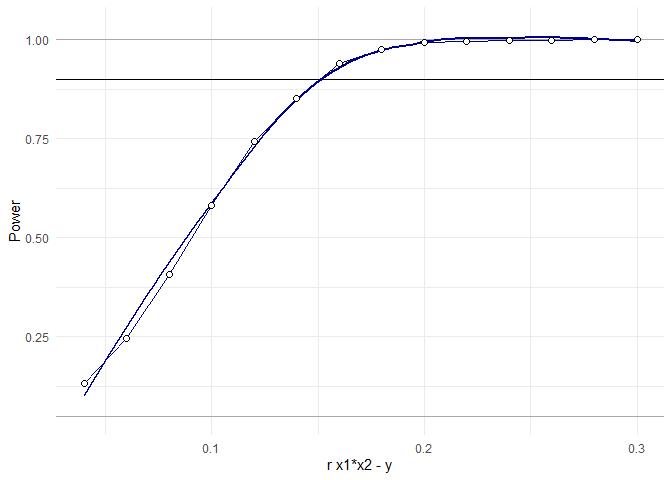
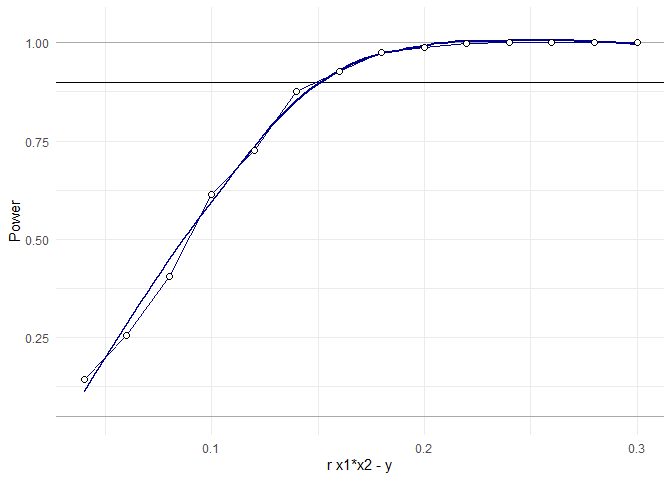
added rsquared

diff --git a/README.md b/README.md
@@ -4,19 +4,18 @@
 # InteractionPoweR
 
 <!-- badges: start -->
-
 <!-- badges: end -->
 
 InteractionPoweR is an R package for running power analyses for
-interactions between continuous variables (also known as a moderation
-analysis). The main function is `power_interaction()`, which performs
-the power analysis. This is done via Monte Carlo simulation.
-`power_estimate()` helps to interpret the results of the power
-simulation, and `plot_power_curve()` and `plot_simple_slope()` generate
-plots to visualize the results. The function `generate_interaction()`
-simulates a single data set drawn from the specified population-level
-effects and `plot_interaction()` can be used to visualize the simulated
-data.
+interactions in cross-sectional data sets between continuous and/or
+binary variables (also known as a moderation analysis). The main
+function is `power_interaction()`, which performs the power analysis.
+This is done via Monte Carlo simulation. `power_estimate()` helps to
+interpret the results of the power simulation, and `plot_power_curve()`
+and `plot_simple_slope()` generate plots to visualize the results. The
+function `generate_interaction()` simulates a single data set drawn from
+the specified population-level effects and `plot_interaction()` can be
+used to visualize the simulated data.
 
 ## Installation
 
@@ -62,15 +61,26 @@ test_power<-power_interaction(
 #> [1] "Checking for errors in inputs..."
 #> [1] "Performing 1000 simulations"
 toc()
-#> 15.2 sec elapsed
+#> 17.71 sec elapsed
 test_power
-#>     pwr     min.lwr   min.upr   max.lwr   max.upr
-#> 1 0.828 -0.08363714 0.2013017 0.1936626 0.4681784
+#> # A tibble: 1,000 x 4
+#> # Groups:   x1x2_r2, x1x2_95confint_25 [1,000]
+#>     x1x2_r2 x1x2_95confint_25 x1x2_95confint_975   pwr
+#>       <dbl>             <dbl>              <dbl> <dbl>
+#>  1 -0.00278           -0.114              0.0991     0
+#>  2 -0.00277           -0.101              0.114      0
+#>  3 -0.00271           -0.106              0.118      0
+#>  4 -0.00268           -0.102              0.111      0
+#>  5 -0.00246           -0.0868             0.121      0
+#>  6 -0.00235           -0.0843             0.124      0
+#>  7 -0.00215           -0.117              0.0715     0
+#>  8 -0.00204           -0.0740             0.127      0
+#>  9 -0.00196           -0.132              0.0779     0
+#> 10 -0.00175           -0.0765             0.146      0
+#> # ... with 990 more rows
 ```
 
 We see that we have \~80% power to detect the effect of interest.
-`min.lwr`, `min.upr` etc reflect the range of simple-slopes you would
-expect to see.
 
 It can be hard to know what interaction correlations mean in terms of
 how the data will look. To help users interpret interaction effects, we
@@ -88,8 +98,8 @@ plot_interaction(data = sample_data,q = 2)
 The `test_interaction()` function can be used to see the results of the
 regression `y ~ x1 + x2 + x1x2`, the correlation between the variables,
 and find the simple slopes from the plot above. In this case, the ‘lower
-slope’, Moderator Group = 1, is roughly 0, while the ‘upper slope’,
-Moderator Group = 1, is 0.38.
+slope’, X2 Group = 1, is roughly 0, while the ‘upper slope’, X2 Group =
+2, is 0.38.
 
 ``` r
 test_interaction(data = sample_data,q = 2)
@@ -98,6 +108,13 @@ test_interaction(data = sample_data,q = 2)
 #> x1   0.1888967 0.05153863 3.665148 2.859696e-04
 #> x2   0.1356407 0.05165265 2.626016 9.022851e-03
 #> x1x2 0.2129386 0.05001033 4.257892 2.661829e-05
+#> 
+#> $x1x2.r2
+#> [1] 0.04391331
+#> 
+#> $x1x2.confint
+#>           [,1]      [,2]
+#> [1,] 0.1145761 0.3113011
 #> 
 #> $correlation
 #>           cor v1   v2
@@ -138,7 +155,7 @@ test_power<-power_interaction(
 #> [1] "Checking for errors in inputs..."
 #> [1] "Performing 60000 simulations"
 toc()
-#> 218.79 sec elapsed
+#> 251.05 sec elapsed
 ```
 
 The results of this analysis can be hard to interpret just by looking at
@@ -153,14 +170,14 @@ plot_power_curve(test_power,power_target = .9)
 <img src="man/figures/README-example4-1.png" width="100%" />
 
 The function `power_estimate()` can be used to estimate where the
-power\_curve for each interaction effect size crosses our 90% line:
+power_curve for each interaction effect size crosses our 90% line:
 
 ``` r
 power_estimate(test_power,power_target = .9,x = "N")
 #>   r.x1x2.y estimate
-#> 1     0.18 309.3075
-#> 2     0.20 249.6749
-#> 3     0.22 206.3517
+#> 1     0.18 306.2977
+#> 2     0.20 244.7260
+#> 3     0.22 201.1376
 ```
 
 We can see that depending on the specific effect size we hope to detect,
@@ -174,26 +191,28 @@ correlation between the two predictors. We know our sample size (perhaps
 we are doing some secondary data analysis) and we want to know what’s
 the smallest effect size we can detect. Using that information, we can
 decide whether that effect would be plausible, which in turn can help
-inform our decision of whether or not to run the analysis.
+inform our decision of whether or not to run the analysis. We’ll ask for
+more details on the simulations using `detailed_results=T`.
 
 ``` r
 library(tictoc)
 tic()
 
 test_power<-power_interaction(
-  n.iter = 1000,                  # number of simulations per unique combination of input parameters
+  n.iter = 1000,            # number of simulations per unique combination of input parameters
   cl = 6,                   # number of cores for parallel processing (strongly recommended)
   alpha = 0.05,             # alpha, for the power analysis
   N = 450,                  # sample size
   r.x1x2.y = seq(0.04,0.3,by=.02), # range of interaction effects to test
   r.x1.y = .2,              # correlation between x1 and y
   r.x2.y = .1,              # correlation between x2 and y
-  r.x1.x2 = .2              # correlation between x1 and x2
+  r.x1.x2 = .2,             # correlation between x1 and x2
+ detailed_results = T       # detailed results have more information on the simulations
 )
 #> [1] "Checking for errors in inputs..."
 #> [1] "Performing 14000 simulations"
 toc()
-#> 86.05 sec elapsed
+#> 88.11 sec elapsed
 ```
 
 As with the previous example, the results of this analysis can be hard
@@ -206,16 +225,16 @@ plot_power_curve(test_power,power_target = .9)
 
 <img src="man/figures/README-example7-1.png" width="100%" /> The
 function `power_estimate()` can be used to estimate where the
-power\_curve for each interaction effect size crosses our 90% line:
+power_curve for each interaction effect size crosses our 90% line:
 
 ``` r
 power_estimate(test_power,power_target = .9,x = "r.x1x2.y")
-#> [1] 0.1478414
+#> [1] 0.1472064
 ```
 
 We can use the function `plot_simple_slope()` to visualize the
-distribution of the simple slopes across the different interaction
-effect sizes.
+distribution of the simple slopes (returned because
+`detailed_results = T`) across the different interaction effect sizes.
 
 ``` r
 plot_simple_slope(test_power)
@@ -255,7 +274,7 @@ test_power<-power_interaction(
 #> [1] "Checking for errors in inputs..."
 #> [1] "Performing 28000 simulations"
 toc()
-#> 157.92 sec elapsed
+#> 162.2 sec elapsed
 plot_power_curve(test_power,power_target = .9)
 ```
 
@@ -283,9 +302,9 @@ adjustment is run prior to the main power analysis, and depending on the
 severity of the changes and size of the analysis, can be relatively
 time-consuming. If, on the other hand, the correlations between
 continuous normal variables is known, but in the analysis one or both
-variables are artificially skewed/dichotomized, set `adjust.correlations
-= F`. In the case where `y` is binary, all analyses and plots are run as
-logistic regressions.
+variables are artificially skewed/dichotomized, set
+`adjust.correlations = F`. In the case where `y` is binary, all analyses
+and plots are run as logistic regressions.
 
 ``` r
 library(tictoc)
@@ -308,7 +327,7 @@ test_power<-power_interaction(
 #> [1] "Adjusting correlations for variable transformations..."
 #> [1] "Performing 9000 simulations"
 toc()
-#> 79.05 sec elapsed
+#> 76.56 sec elapsed
 plot_power_curve(test_power,power_target = .9,x = "skew.x1")
 ```
 
@@ -326,10 +345,18 @@ of a single data set where all variables are binary and x2 & y are
 skewed (the x1 probability of 0.5 corresponds to a skew of 0).
 
 ``` r
-set.seed(2020)
-sample_data<-generate_interaction(N=350,r.x1x2.y =.15,r.x1.y = .2, r.x2.y = .1, r.x1.x2 = .2,
-                                  transform.x1 = "binary",transform.x2 = "binary",transform.y = "binary",
-                                  skew.x1 = binary.p2skew(.5),skew.x2 = binary.p2skew(.7),skew.y = binary.p2skew(.4),
+set.seed(2021)
+sample_data<-generate_interaction(N=350,
+                                  r.x1x2.y =.15,
+                                  r.x1.y = .1, 
+                                  r.x2.y = .2, 
+                                  r.x1.x2 = .2,
+                                  transform.x1 = "binary",
+                                  transform.x2 = "binary",
+                                  transform.y = "binary",
+                                  skew.x1 = binary.p2skew(.5),
+                                  skew.x2 = binary.p2skew(.7),
+                                  skew.y = binary.p2skew(.4),
                                   adjust.correlations = T
                                     )
 plot_interaction(data = sample_data)
@@ -340,21 +367,28 @@ plot_interaction(data = sample_data)
 ``` r
 test_interaction(data = sample_data)
 #> $linear.model
-#>       Estimate Std. Error   z value     Pr(>|z|)
-#> x1   0.4048085  0.1177021 3.4392620 0.0005833024
-#> x2   0.0339104  0.1173937 0.2888604 0.7726882026
-#> x1x2 0.3868971  0.1179594 3.2799163 0.0010383788
+#>        Estimate Std. Error   z value     Pr(>|z|)
+#> x1   0.05167397  0.1254139 0.4120275 6.803193e-01
+#> x2   0.62716077  0.1425995 4.3980560 1.092248e-05
+#> x1x2 0.29777864  0.1424952 2.0897455 3.664067e-02
+#> 
+#> $x1x2.r2
+#> [1] 0.01080814
+#> 
+#> $x1x2.confint
+#>            [,1]      [,2]
+#> [1,] 0.02966431 0.5959014
 #> 
 #> $correlation
 #>             cor v1   v2
-#> 5   0.151233013 x1   x2
-#> 9   0.194123261 x1    y
-#> 10  0.027154495 x2    y
-#> 13  0.007020166 x1 x1x2
-#> 14 -0.150449032 x2 x1x2
-#> 15  0.175185129  y x1x2
+#> 5   0.195113099 x1   x2
+#> 9   0.101302720 x1    y
+#> 10  0.250452591 x2    y
+#> 13 -0.002271454 x1 x1x2
+#> 14 -0.161866537 x2 x1x2
+#> 15  0.069639076  y x1x2
 #> 
 #> $simple.slopes
 #>    lower.slope upper.slope
-#> x1  -0.2147202   0.6457363
+#> x1  -0.3904739   0.2516496
 ```
